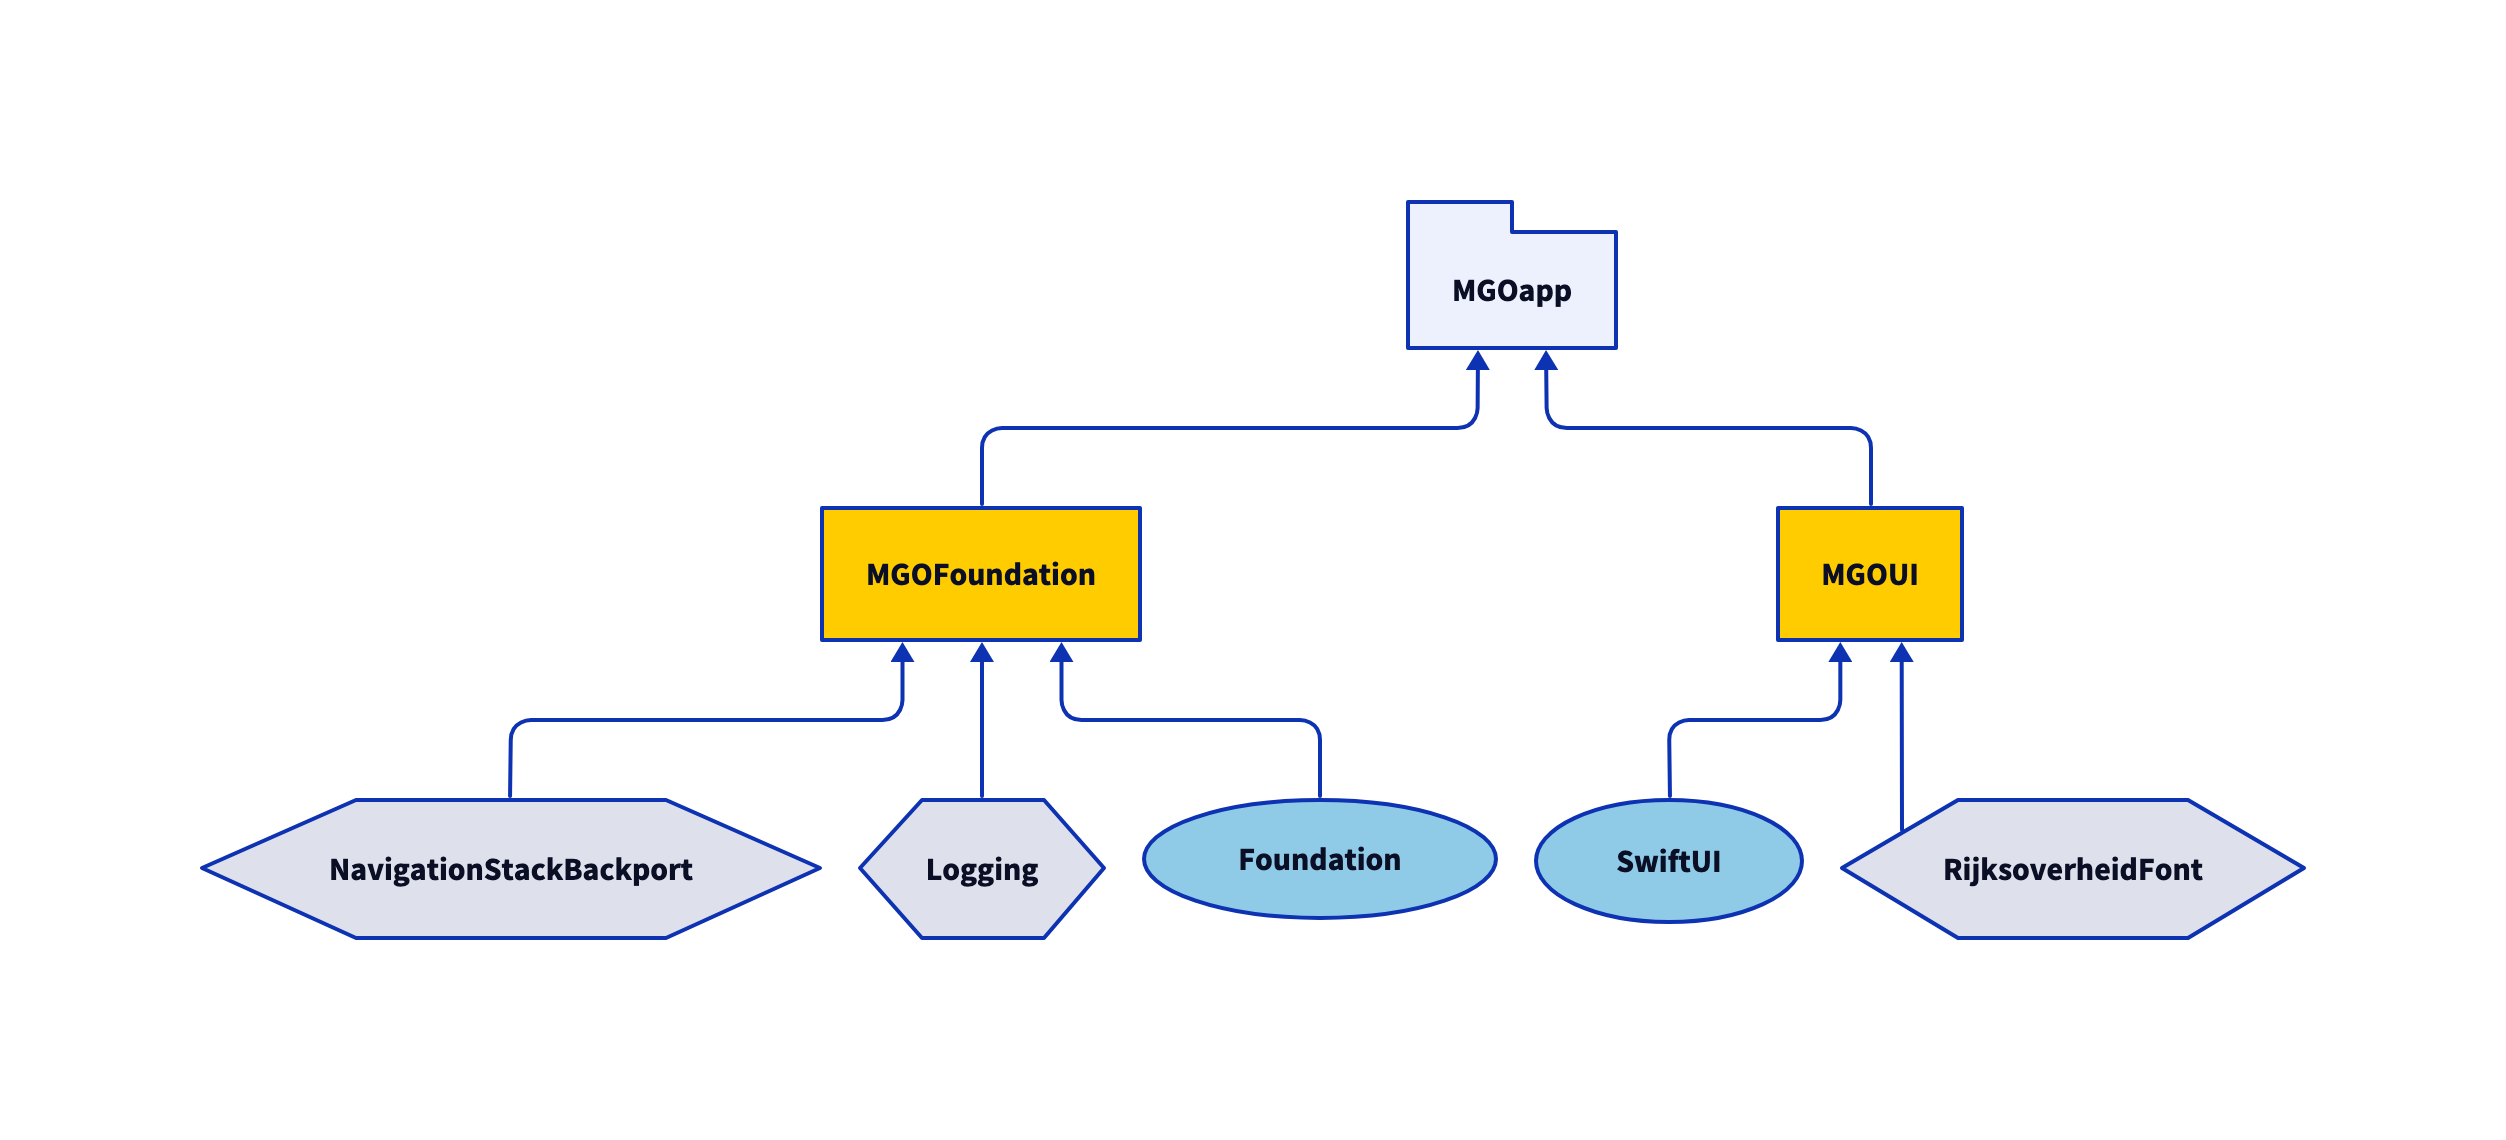
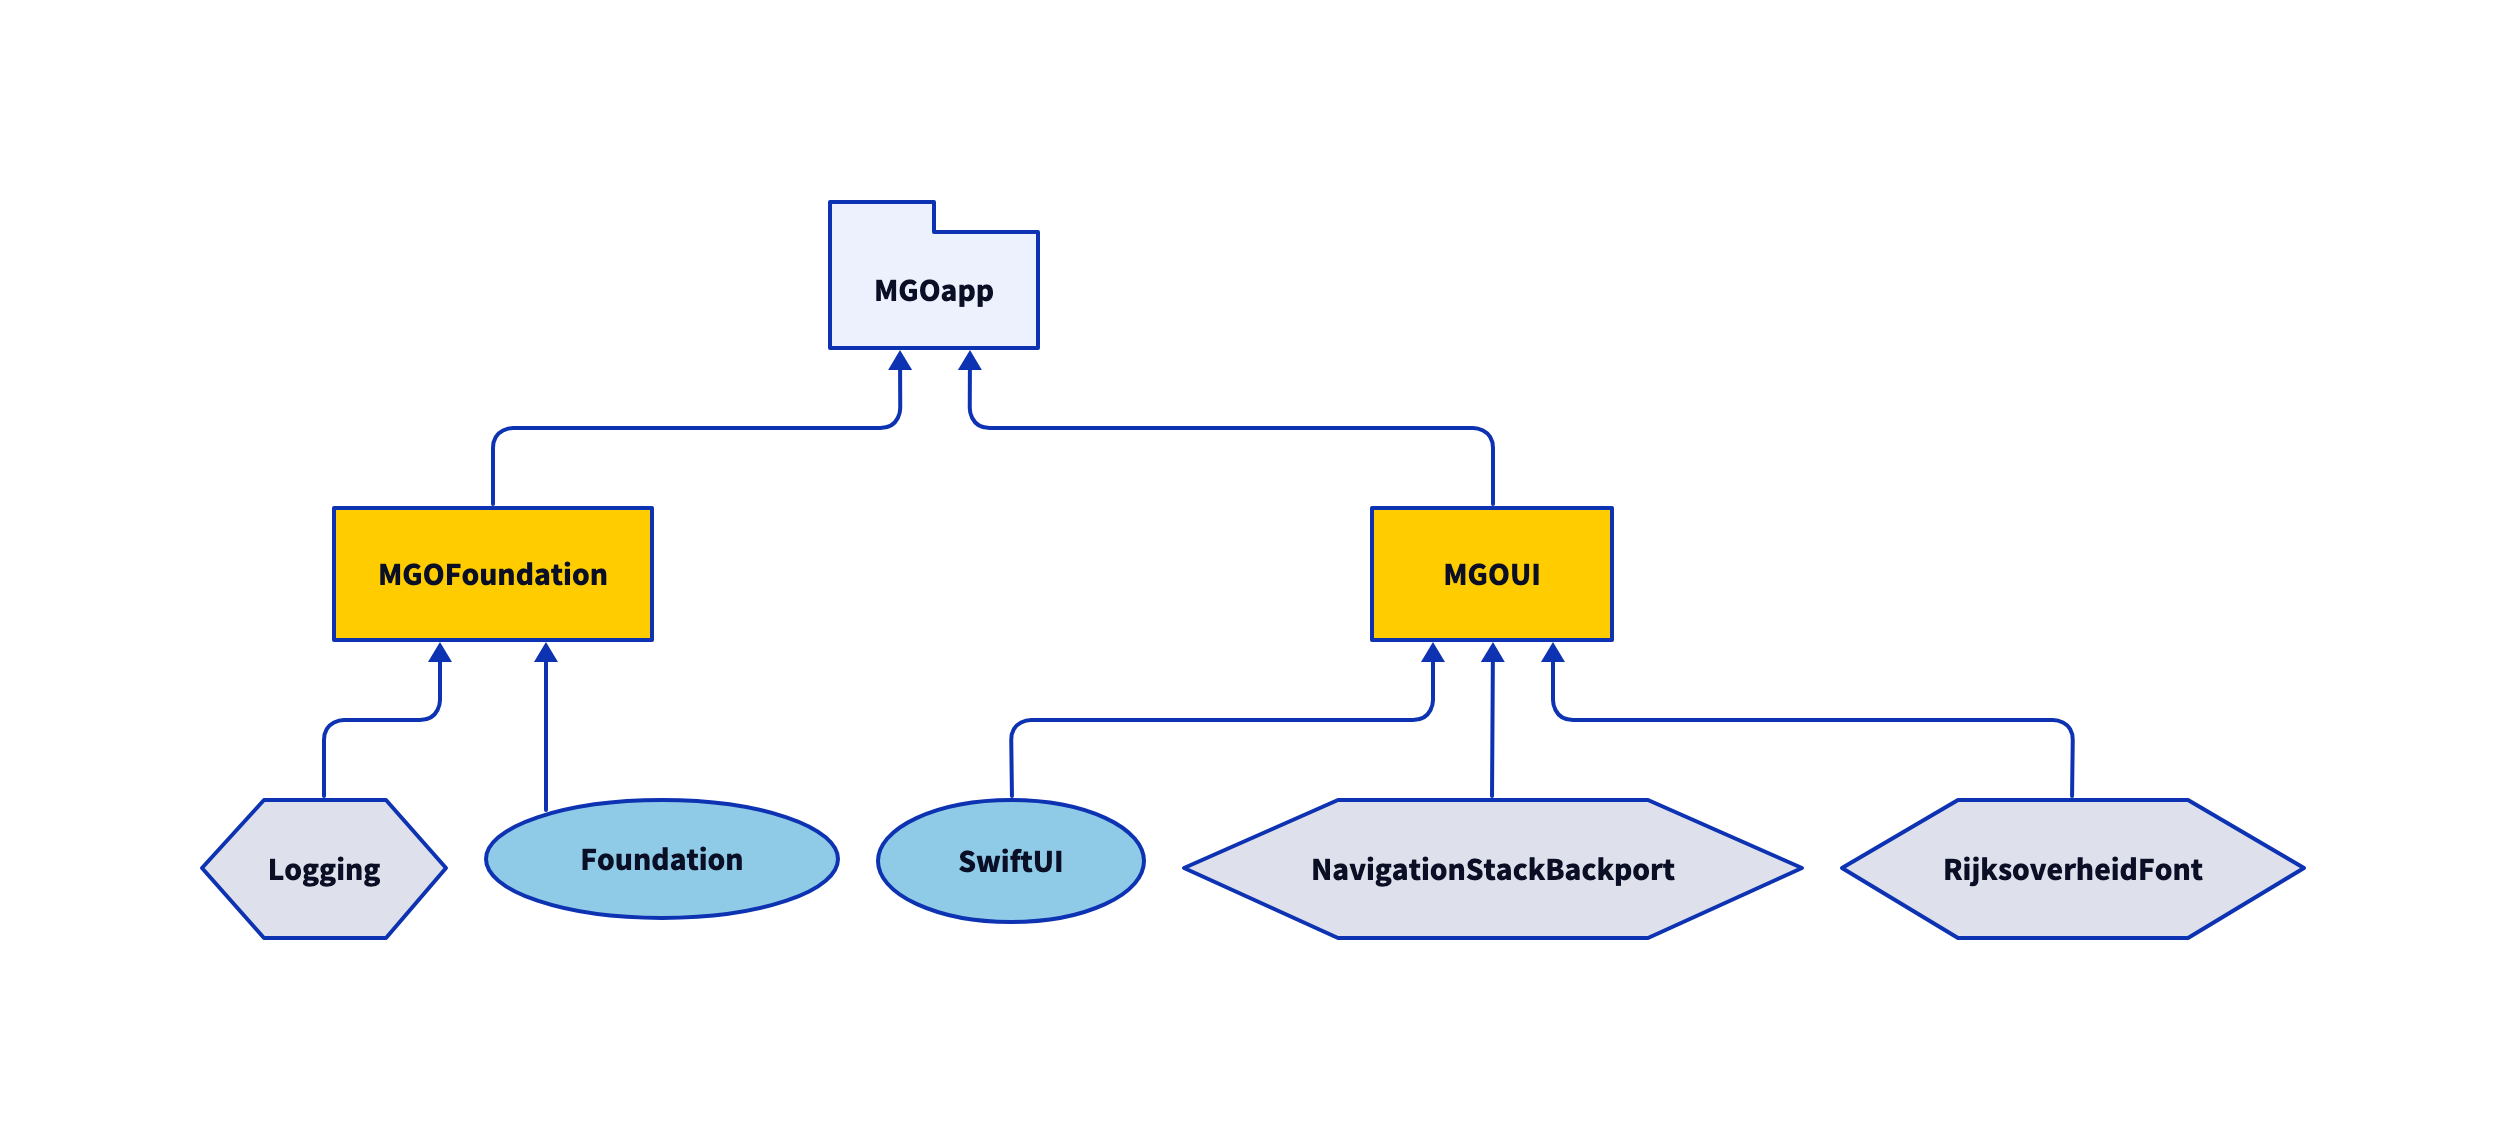
feat(introduction): Updated dependencies

diff --git a/Packages/MGOFoundation/Package.swift b/Packages/MGOFoundation/Package.swift
@@ -15,17 +15,13 @@ let package = Package(
 	dependencies: [
 		
 		// VWS
-		.package(url: "https://github.com/minvws/nl-rdo-app-ios-modules", branch: "main"),
-		
-		// External
-		.package(url: "https://github.com/lm/navigation-stack-backport", from: "1.1.0")
+		.package(url: "https://github.com/minvws/nl-rdo-app-ios-modules", branch: "main")
 	],
 	targets: [
 		.target(
 			name: "MGOFoundation",
 			dependencies: [
-				.product(name: "Logging", package: "nl-rdo-app-ios-modules"),
-				.product(name: "NavigationStackBackport", package: "navigation-stack-backport")
+				.product(name: "Logging", package: "nl-rdo-app-ios-modules")
 			]
 		)
 	]

diff --git a/Packages/MGOUI/Package.swift b/Packages/MGOUI/Package.swift
@@ -15,12 +15,16 @@ let package = Package(
 	dependencies: [
 		// Internal
 		.package(name: "RijksoverheidFont", path: "../RijksoverheidFont"),
+		
+		// External
+		.package(url: "https://github.com/lm/navigation-stack-backport", from: "1.1.0")
 	],
 	targets: [
 		.target(
 			name: "MGOUI",
 			dependencies: [
 				.product(name: "RijksoverheidFont", package: "RijksoverheidFont"),
+				.product(name: "NavigationStackBackport", package: "navigation-stack-backport")
 			]
 		)
 	]

diff --git a/Packages/MGOFoundation/Sources/MGOFoundation/MGOFoundation.swift b/Packages/MGOFoundation/Sources/MGOFoundation/MGOFoundation.swift
@@ -1,10 +1,12 @@
 /*
- * Copyright (c) 2024 De Staat der Nederlanden, Ministerie van Volksgezondheid, Welzijn en Sport.
+ *  Copyright (c) 2024 De Staat der Nederlanden, Ministerie van Volksgezondheid, Welzijn en Sport.
  *  Licensed under the EUROPEAN UNION PUBLIC LICENCE v. 1.2
  *
  *  SPDX-License-Identifier: EUPL-1.2
  */
 
+// System
 @_exported import Foundation
+
+// VWS
 @_exported import Logging
-@_exported import NavigationStackBackport

diff --git a/Packages/MGOUI/Sources/MGOUI/MGOUI.swift b/Packages/MGOUI/Sources/MGOUI/MGOUI.swift
@@ -1,6 +1,15 @@
-// The Swift Programming Language
-// https://docs.swift.org/swift-book
+/*
+ *  Copyright (c) 2024 De Staat der Nederlanden, Ministerie van Volksgezondheid, Welzijn en Sport.
+ *  Licensed under the EUROPEAN UNION PUBLIC LICENCE v. 1.2
+ *
+ *  SPDX-License-Identifier: EUPL-1.2
+ */
 
 // System
 @_exported import SwiftUI
+
+// Internal
 @_exported import RijksoverheidFont
+
+// External
+@_exported import NavigationStackBackport

diff --git a/Sources/MGO/Features/AppIntroduction/AppIntroductionView.swift b/Sources/MGO/Features/AppIntroduction/AppIntroductionView.swift
@@ -1,11 +1,10 @@
 /*
- * Copyright (c) 2024 De Staat der Nederlanden, Ministerie van Volksgezondheid, Welzijn en Sport.
+ *  Copyright (c) 2024 De Staat der Nederlanden, Ministerie van Volksgezondheid, Welzijn en Sport.
  *  Licensed under the EUROPEAN UNION PUBLIC LICENCE v. 1.2
  *
  *  SPDX-License-Identifier: EUPL-1.2
  */
 
-import MGOFoundation
 import MGOUI
 
 class AppIntroductionViewModel: ObservableObject {

diff --git a/Sources/MGO/Features/AppIntroduction/PrivacyView.swift b/Sources/MGO/Features/AppIntroduction/PrivacyView.swift
@@ -1,11 +1,10 @@
 /*
- * Copyright (c) 2024 De Staat der Nederlanden, Ministerie van Volksgezondheid, Welzijn en Sport.
+ *  Copyright (c) 2024 De Staat der Nederlanden, Ministerie van Volksgezondheid, Welzijn en Sport.
  *  Licensed under the EUROPEAN UNION PUBLIC LICENCE v. 1.2
  *
  *  SPDX-License-Identifier: EUPL-1.2
  */
 
-import MGOFoundation
 import MGOUI
 
 class PrivacyViewModel: ObservableObject {

diff --git a/Sources/MGO/Features/Launch/LaunchView.swift b/Sources/MGO/Features/Launch/LaunchView.swift
@@ -1,11 +1,10 @@
 /*
- * Copyright (c) 2024 De Staat der Nederlanden, Ministerie van Volksgezondheid, Welzijn en Sport.
+ *  Copyright (c) 2024 De Staat der Nederlanden, Ministerie van Volksgezondheid, Welzijn en Sport.
  *  Licensed under the EUROPEAN UNION PUBLIC LICENCE v. 1.2
  *
  *  SPDX-License-Identifier: EUPL-1.2
  */
 
-import MGOFoundation
 import MGOUI
 
 class LaunchViewModel: ObservableObject {

diff --git a/Sources/MGO/Features/AppIntroduction/PrivacyStatementView.swift b/Sources/MGO/Features/AppIntroduction/PrivacyStatementView.swift
@@ -1,11 +1,10 @@
 /*
- * Copyright (c) 2024 De Staat der Nederlanden, Ministerie van Volksgezondheid, Welzijn en Sport.
+ *  Copyright (c) 2024 De Staat der Nederlanden, Ministerie van Volksgezondheid, Welzijn en Sport.
  *  Licensed under the EUROPEAN UNION PUBLIC LICENCE v. 1.2
  *
  *  SPDX-License-Identifier: EUPL-1.2
  */
 
-import MGOFoundation
 import MGOUI
 
 struct PrivacyStatementView: View {

diff --git a/Sources/MGO/Common/BackButton.swift b/Sources/MGO/Common/BackButton.swift
@@ -1,5 +1,5 @@
 /*
- * Copyright (c) 2024 De Staat der Nederlanden, Ministerie van Volksgezondheid, Welzijn en Sport.
+ *  Copyright (c) 2024 De Staat der Nederlanden, Ministerie van Volksgezondheid, Welzijn en Sport.
  *  Licensed under the EUROPEAN UNION PUBLIC LICENCE v. 1.2
  *
  *  SPDX-License-Identifier: EUPL-1.2

diff --git a/Sources/MGO/Common/ClearToBackgroundGradientView.swift b/Sources/MGO/Common/ClearToBackgroundGradientView.swift
@@ -1,5 +1,5 @@
 /*
- * Copyright (c) 2024 De Staat der Nederlanden, Ministerie van Volksgezondheid, Welzijn en Sport.
+ *  Copyright (c) 2024 De Staat der Nederlanden, Ministerie van Volksgezondheid, Welzijn en Sport.
  *  Licensed under the EUROPEAN UNION PUBLIC LICENCE v. 1.2
  *
  *  SPDX-License-Identifier: EUPL-1.2

diff --git a/Sources/MGO/Common/Extensions/Binding+Presence.swift b/Sources/MGO/Common/Extensions/Binding+Presence.swift
@@ -1,5 +1,5 @@
 /*
- * Copyright (c) 2024 De Staat der Nederlanden, Ministerie van Volksgezondheid, Welzijn en Sport.
+ *  Copyright (c) 2024 De Staat der Nederlanden, Ministerie van Volksgezondheid, Welzijn en Sport.
  *  Licensed under the EUROPEAN UNION PUBLIC LICENCE v. 1.2
  *
  *  SPDX-License-Identifier: EUPL-1.2

diff --git a/Sources/MGO/Common/Extensions/View+InspectableSheet.swift b/Sources/MGO/Common/Extensions/View+InspectableSheet.swift
@@ -1,5 +1,5 @@
 /*
- * Copyright (c) 2024 De Staat der Nederlanden, Ministerie van Volksgezondheid, Welzijn en Sport.
+ *  Copyright (c) 2024 De Staat der Nederlanden, Ministerie van Volksgezondheid, Welzijn en Sport.
  *  Licensed under the EUROPEAN UNION PUBLIC LICENCE v. 1.2
  *
  *  SPDX-License-Identifier: EUPL-1.2
